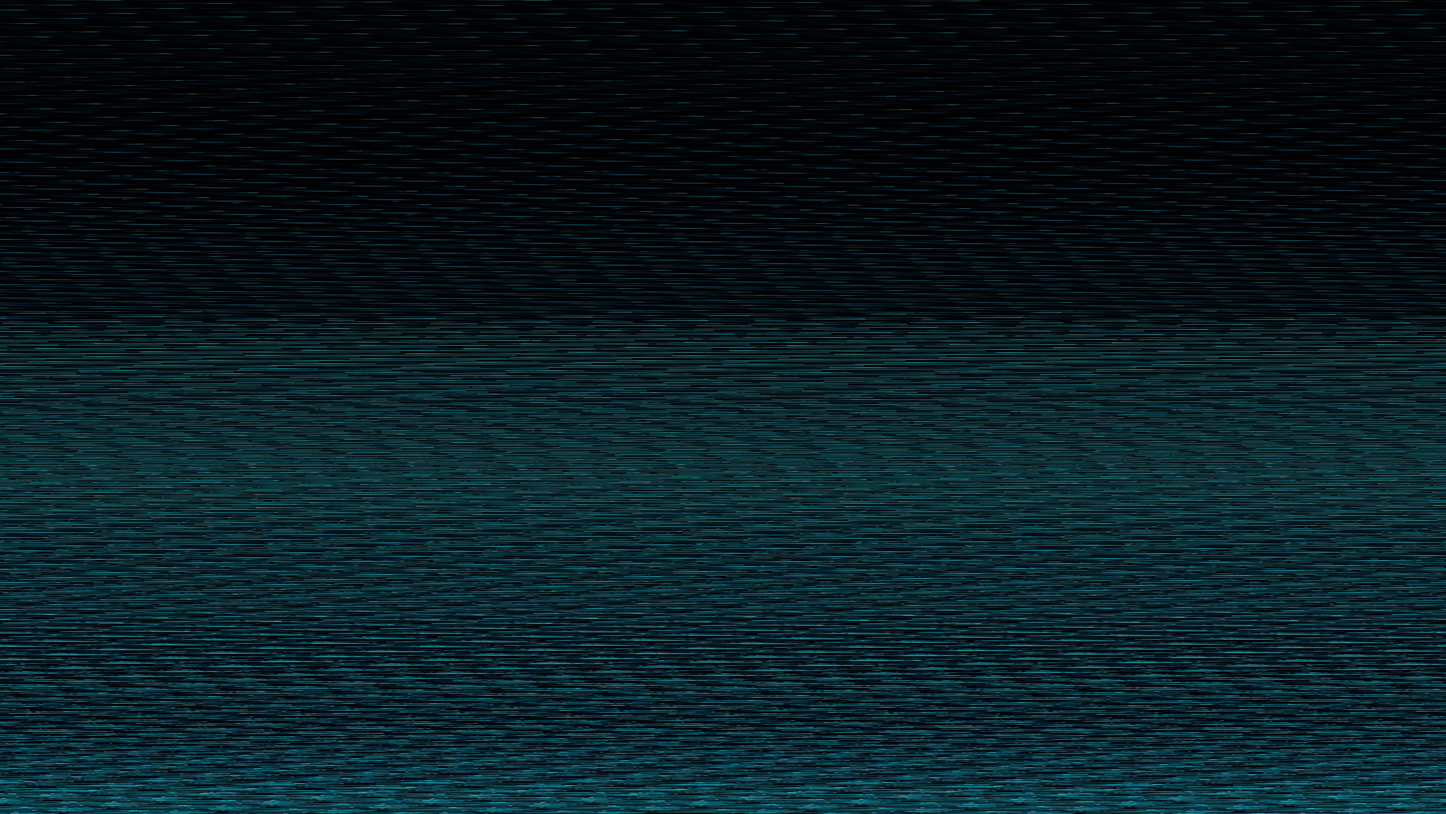
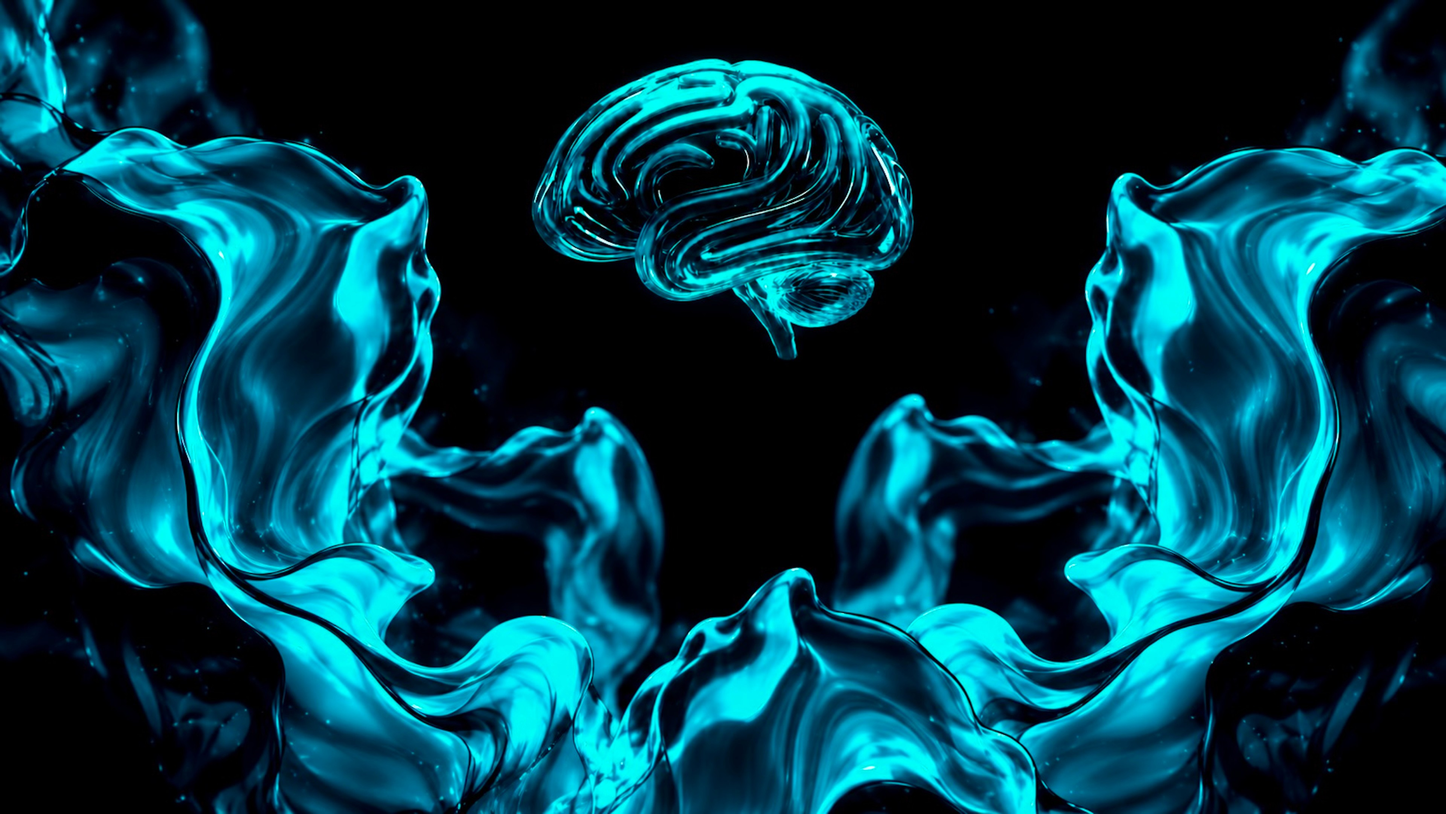
Update landing page with new artwork and memory improvements
Replace landing page artwork and update memory file to reflect new image dimensions and fix stale buffer issues.

Replit-Commit-Author: Agent
Replit-Commit-Session-Id: c1303a7e-4185-4363-903e-8b8e6f747106
Replit-Commit-Checkpoint-Type: full_checkpoint
Replit-Commit-Event-Id: df2a81c3-cb62-497a-8452-f5e3f166acb0
Replit-Commit-Screenshot-Url: https://storage.googleapis.com/screenshot-production-us-central1/d3876158-494b-4e7b-a77f-48830782ce72/c1303a7e-4185-4363-903e-8b8e6f747106/5fGAKOc
Replit-Helium-Checkpoint-Created: true

diff --git a/artifacts/neuronotes/src/index.css b/artifacts/neuronotes/src/index.css
@@ -709,7 +709,8 @@ body {
 }
 
 /* Landing-page backdrop: the owner's liquid-brain artwork (brain hovering
-   over chrome waves) over the same pure-black base. LANDING ONLY. */
+   over liquid waves, owner-supplied at 3840x2161, 2026-07-15) over the same
+   pure-black base. LANDING ONLY. */
 .landing-root.study-page-bg::before {
   background-image: url("./assets/bg/landing-liquid-brain.jpeg");
   background-color: #000;

diff --git a/.agents/memory/psychpro-smoke-bg-resolution.md b/.agents/memory/psychpro-smoke-bg-resolution.md
@@ -40,3 +40,5 @@ both. The upscale recipe below stays useful only if smoke-style artwork returns.
 - ~3.6GB free RAM (app workflows eat ~4.8GB of 8GB); large float output tensors OOM-kill.
 - Working recipe: write output into an on-disk `np.memmap` (uint8), tile=128 (low peak mem),
   track done rows in a json, stop at a time budget, re-run until ALLDONE. tile=256 OOM'd.
+- ALWAYS delete stale `out.dat`/`state.json` before a run on a NEW image: a leftover
+  buffer+done-list from a previous image silently produces scrambled output (2026-07-15).
